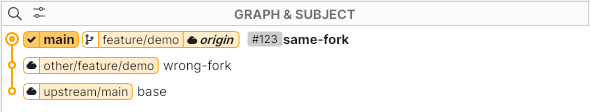
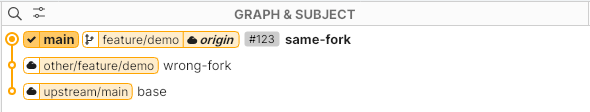
Polish PR badge spacing in the commit graph

Changed region(s): [[0.3966, 0.2946, 0.6102, 0.4018]]

diff --git a/src/Views/PullRequestBadges.cs b/src/Views/PullRequestBadges.cs
@@ -44,7 +44,7 @@ namespace SourceGit.Views
                     Content = $"#{badge.Number}",
                     FontSize = 11,
                     Padding = new Thickness(4, 0),
-                    Margin = new Thickness(3, 0, 0, 0),
+                    Margin = new Thickness(0, 0, 5, 0),
                     VerticalAlignment = VerticalAlignment.Center,
                 };
                 ToolTip.SetTip(button, $"{badge.Repository} #{badge.Number} — {badge.Branch}");

diff --git a/PROTOTYPE.md b/PROTOTYPE.md
@@ -5,7 +5,7 @@
 ## What was prototyped
 
 - **C1 — Discover open PRs.** With `--github-pr-badges`, SourceGit runs `gh api` in the background when a repository opens and once per minute afterward. It queries the GitHub repositories configured as remotes and matches the PR head repository, case-sensitive branch name, and exact fetched commit. See `src/Commands/GitHubPullRequests.cs` and `src/ViewModels/Repository.cs`.
-- **C2 — Show links in the graph.** The graph shows `#123` beside the matching branch labels on the head commit row. The tooltip names the source branch and the destination repository; clicking opens that PR in the browser. See `src/Views/Histories.axaml` and `src/Views/PullRequestBadges.cs`.
+- **C2 — Show links in the graph.** The graph shows `#123` beside the matching branch labels on the head commit row, with a gap like the one between branch labels and space before the commit subject. The tooltip names the source branch and the destination repository; clicking opens that PR in the browser. See `src/Views/Histories.axaml` and `src/Views/PullRequestBadges.cs`.
 
 ## Demo scenarios
 
